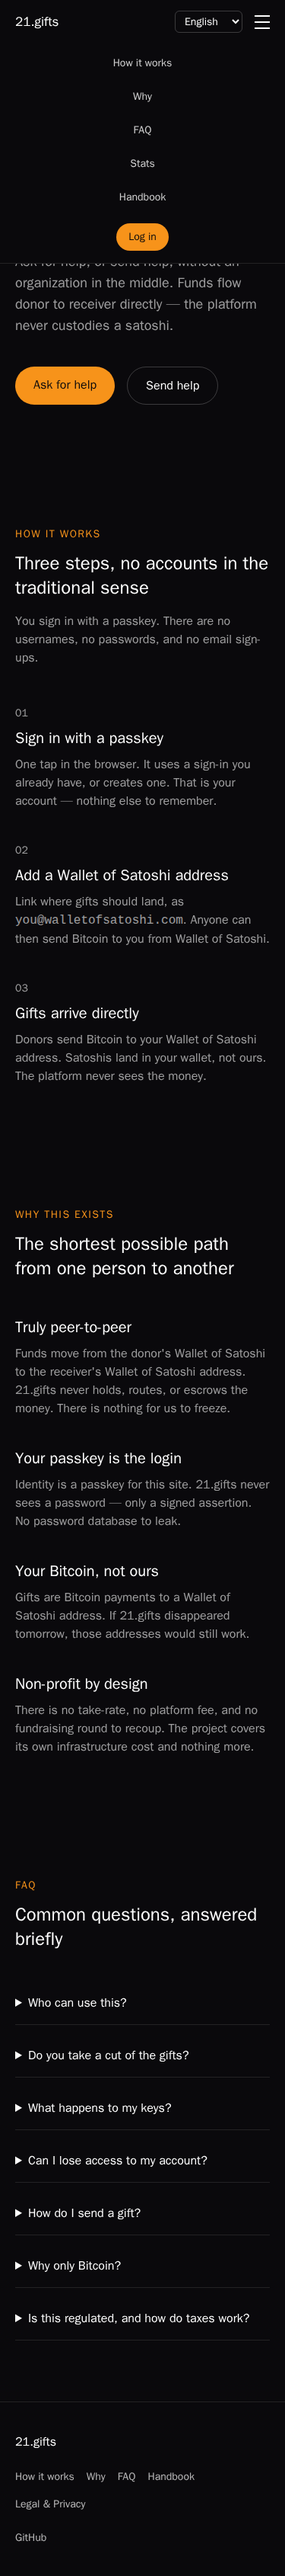
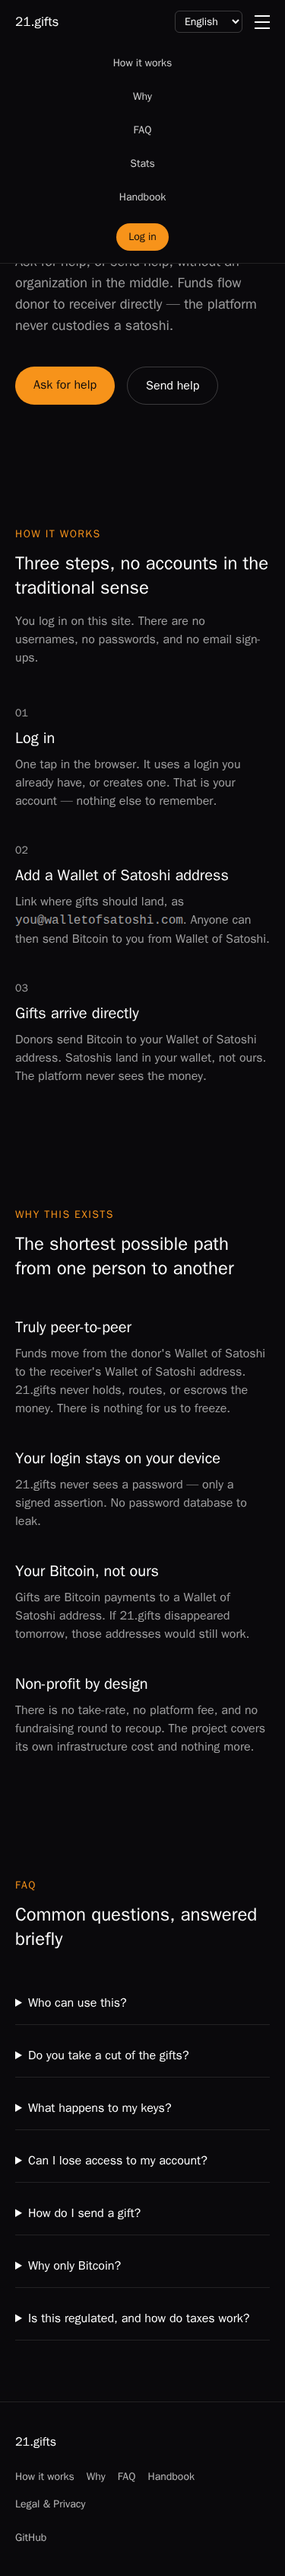
Use ordinary login language on landing, legal, and handbook

Changed region(s): [[0.0587, 0.5592, 0.8213, 0.5902], [0.088, 0.2796, 0.1173, 0.3107]]

diff --git a/src/lib/messages.ts b/src/lib/messages.ts
@@ -26,10 +26,10 @@ const en = {
   'home.howKicker': 'How it works',
   'home.howTitle': 'Three steps, no accounts in the traditional sense',
   'home.howLead':
-    'You sign in with a passkey. There are no usernames, no passwords, and no email sign-ups.',
-  'home.step1Title': 'Sign in with a passkey',
+    'You log in on this site. There are no usernames, no passwords, and no email sign-ups.',
+  'home.step1Title': 'Log in',
   'home.step1Body':
-    'One tap in the browser. It uses a sign-in you already have, or creates one. That is your account — nothing else to remember.',
+    'One tap in the browser. It uses a login you already have, or creates one. That is your account — nothing else to remember.',
   'home.step2Title': 'Add a Wallet of Satoshi address',
   'home.step2BodyBefore': 'Link where gifts should land, as',
   'home.step2BodyAfter': '. Anyone can then send Bitcoin to you from Wallet of Satoshi.',
@@ -41,9 +41,9 @@ const en = {
   'home.why1Title': 'Truly peer-to-peer',
   'home.why1Body':
     "Funds move from the donor's Wallet of Satoshi to the receiver's Wallet of Satoshi address. 21.gifts never holds, routes, or escrows the money. There is nothing for us to freeze.",
-  'home.why2Title': 'Your passkey is the login',
+  'home.why2Title': 'Your login stays on your device',
   'home.why2Body':
-    'Identity is a passkey for this site. 21.gifts never sees a password — only a signed assertion. No password database to leak.',
+    '21.gifts never sees a password — only a signed assertion. No password database to leak.',
   'home.why3Title': 'Your Bitcoin, not ours',
   'home.why3Body':
     'Gifts are Bitcoin payments to a Wallet of Satoshi address. If 21.gifts disappeared tomorrow, those addresses would still work.',
@@ -59,10 +59,10 @@ const en = {
     "No. Payments go directly from the donor's Wallet of Satoshi to the receiver's Wallet of Satoshi address. 21.gifts is never in the payment path and earns nothing per transaction.",
   'home.faq3Q': 'What happens to my keys?',
   'home.faq3A':
-    'Login credentials stay on your device (and any platform passkey sync you use). 21.gifts only sees a signed passkey assertion and, if you choose, the Wallet of Satoshi address you publish. There is no password and no seed stored on our servers.',
+    'Login credentials stay on your device (and any platform sync you use). 21.gifts only sees a signed login assertion and, if you choose, the Wallet of Satoshi address you publish. There is no password and no seed stored on our servers.',
   'home.faq4Q': 'Can I lose access to my account?',
   'home.faq4A':
-    'Yes. If you lose the passkey and any platform sync, the account cannot be recovered in v1. Keep a backup of the authenticator you sign in with.',
+    'Yes. If you lose the login and any platform sync, the account cannot be recovered in v1. Keep a backup of the device you sign in with.',
   'home.faq5Q': 'How do I send a gift?',
   'home.faq5A':
     "Open Send help, enter the recipient's Wallet of Satoshi address and an amount in sats, then pay with Wallet of Satoshi. You do not need to log in to give.",
@@ -160,10 +160,10 @@ const de = {
   'home.howKicker': "So funktioniert's",
   'home.howTitle': 'Drei Schritte, keine Konten im herkömmlichen Sinn',
   'home.howLead':
-    'Sie melden sich mit einem Passkey an. Keine Benutzernamen, keine Passwörter, keine E-Mail-Registrierung.',
-  'home.step1Title': 'Mit einem Passkey anmelden',
+    'Sie melden sich an. Keine Benutzernamen, keine Passwörter, keine E-Mail-Registrierung.',
+  'home.step1Title': 'Anmelden',
   'home.step1Body':
-    'Ein Tipp im Browser. Er nutzt eine vorhandene Anmeldung oder legt eine an. Das ist Ihr Konto — sonst nichts merken.',
+    'Ein Tipp im Browser. Er nutzt ein vorhandenes Login oder legt eines an. Das ist Ihr Konto — sonst nichts merken.',
   'home.step2Title': 'Wallet of Satoshi address hinterlegen',
   'home.step2BodyBefore': 'Hinterlegen Sie, wo Geschenke ankommen sollen, als',
   'home.step2BodyAfter': '. Danach kann Ihnen jede Person aus Wallet of Satoshi senden.',
@@ -175,9 +175,9 @@ const de = {
   'home.why1Title': 'Echt peer-to-peer',
   'home.why1Body':
     'Das Geld geht von Wallet of Satoshi der gebenden Person an die Wallet of Satoshi address der empfangenden Person. 21.gifts hält, routet oder treuhändert nichts. Es gibt nichts, das wir einfrieren könnten.',
-  'home.why2Title': 'Ihr Passkey ist die Anmeldung',
+  'home.why2Title': 'Ihr Login bleibt bei Ihnen',
   'home.why2Body':
-    'Identität ist ein Passkey für diese Seite. 21.gifts sieht kein Passwort — nur eine signierte Anmeldung. Keine Passwort-Datenbank, die lecken kann.',
+    '21.gifts sieht kein Passwort — nur eine signierte Anmeldung. Keine Passwort-Datenbank, die lecken kann.',
   'home.why3Title': 'Ihr Bitcoin, nicht unserer',
   'home.why3Body':
     'Geschenke sind Bitcoin-Zahlungen an eine Wallet of Satoshi address. Würde 21.gifts morgen verschwinden, funktionieren diese Adressen weiter.',
@@ -193,10 +193,10 @@ const de = {
     'Nein. Zahlungen gehen direkt von Wallet of Satoshi der gebenden Person an die Wallet of Satoshi address der empfangenden Person. 21.gifts liegt nicht im Zahlungsweg und verdient nichts pro Transaktion.',
   'home.faq3Q': 'Was passiert mit meinen Schlüsseln?',
   'home.faq3A':
-    'Anmeldedaten bleiben auf Ihrem Gerät (und in einer Passkey-Sync, falls Sie eine nutzen). 21.gifts sieht nur eine signierte Passkey-Anmeldung und, wenn Sie das wollen, die Wallet of Satoshi address, die Sie veröffentlichen. Kein Passwort und kein Seed auf unseren Servern.',
+    'Anmeldedaten bleiben auf Ihrem Gerät (und in einer Login-Sync, falls Sie eine nutzen). 21.gifts sieht nur eine signierte Anmeldung und, wenn Sie das wollen, die Wallet of Satoshi address, die Sie veröffentlichen. Kein Passwort und kein Seed auf unseren Servern.',
   'home.faq4Q': 'Kann ich den Zugang zu meinem Konto verlieren?',
   'home.faq4A':
-    'Ja. Wenn Sie den Passkey und jede Plattform-Sync verlieren, ist das Konto in v1 nicht wiederherstellbar. Sichern Sie den Authenticator, mit dem Sie sich anmelden.',
+    'Ja. Wenn Sie das Login und jede Plattform-Sync verlieren, ist das Konto in v1 nicht wiederherstellbar. Sichern Sie das Gerät, mit dem Sie sich anmelden.',
   'home.faq5Q': 'Wie sende ich ein Geschenk?',
   'home.faq5A':
     'Öffnen Sie Hilfe senden, geben Sie die Wallet of Satoshi address der empfangenden Person und einen Betrag in Sats ein und zahlen Sie mit Wallet of Satoshi. Zum Geben müssen Sie sich nicht anmelden.',
@@ -282,10 +282,10 @@ const es = {
   'home.howKicker': 'Cómo funciona',
   'home.howTitle': 'Tres pasos, sin cuentas al estilo tradicional',
   'home.howLead':
-    'Entras con una passkey. Sin nombres de usuario, sin contraseñas y sin registro por correo.',
-  'home.step1Title': 'Entra con una passkey',
+    'Entras con un login. Sin nombres de usuario, sin contraseñas y sin registro por correo.',
+  'home.step1Title': 'Iniciar sesión',
   'home.step1Body':
-    'Un toque en el navegador. Usa un inicio de sesión que ya tengas, o crea uno. Esa es tu cuenta — nada más que recordar.',
+    'Un toque en el navegador. Usa un login que ya tengas, o crea uno. Esa es tu cuenta — nada más que recordar.',
   'home.step2Title': 'Añade una Wallet of Satoshi address',
   'home.step2BodyBefore': 'Indica dónde deben llegar los regalos, como',
   'home.step2BodyAfter': '. Cualquiera podrá enviarte Bitcoin desde Wallet of Satoshi.',
@@ -297,9 +297,9 @@ const es = {
   'home.why1Title': 'Peer-to-peer de verdad',
   'home.why1Body':
     'Los fondos van de Wallet of Satoshi de quien da a la Wallet of Satoshi address de quien recibe. 21.gifts no retiene, enruta ni deja en depósito el dinero. No hay nada que podamos congelar.',
-  'home.why2Title': 'Tu passkey es el inicio de sesión',
+  'home.why2Title': 'Tu login permanece en tu dispositivo',
   'home.why2Body':
-    'La identidad es una passkey para este sitio. 21.gifts no ve una contraseña — solo una aserción firmada. No hay base de datos de contraseñas que se pueda filtrar.',
+    '21.gifts no ve una contraseña — solo una aserción firmada. No hay base de datos de contraseñas que se pueda filtrar.',
   'home.why3Title': 'Tu Bitcoin, no el nuestro',
   'home.why3Body':
     'Los regalos son pagos Bitcoin a una Wallet of Satoshi address. Si 21.gifts desapareciera mañana, esas direcciones seguirían funcionando.',
@@ -315,10 +315,10 @@ const es = {
     'No. Los pagos van directo de Wallet of Satoshi de quien da a la Wallet of Satoshi address de quien recibe. 21.gifts no está en la ruta de pago y no gana nada por transacción.',
   'home.faq3Q': '¿Qué pasa con mis claves?',
   'home.faq3A':
-    'Las credenciales de acceso quedan en tu dispositivo (y en la sincronización de passkeys de la plataforma, si la usas). 21.gifts solo ve una aserción de passkey firmada y, si lo eliges, la Wallet of Satoshi address que publicas. No hay contraseña ni semilla en nuestros servidores.',
+    'Las credenciales de acceso quedan en tu dispositivo (y en la sincronización de la plataforma, si la usas). 21.gifts solo ve una aserción de login firmada y, si lo eliges, la Wallet of Satoshi address que publicas. No hay contraseña ni semilla en nuestros servidores.',
   'home.faq4Q': '¿Puedo perder el acceso a mi cuenta?',
   'home.faq4A':
-    'Sí. Si pierdes la passkey y cualquier sincronización de plataforma, la cuenta no se puede recuperar en v1. Conserva una copia de seguridad del autenticador con el que entras.',
+    'Sí. Si pierdes el login y cualquier sincronización de plataforma, la cuenta no se puede recuperar en v1. Conserva una copia de seguridad del dispositivo con el que entras.',
   'home.faq5Q': '¿Cómo envío un regalo?',
   'home.faq5A':
     'Abre Enviar ayuda, escribe la Wallet of Satoshi address de quien recibe y un monto en sats, y paga con Wallet of Satoshi. No hace falta iniciar sesión para dar.',
@@ -403,9 +403,8 @@ const fil = {
   'home.ctaSend': 'Magpadala ng tulong',
   'home.howKicker': 'Paano ito gumagana',
   'home.howTitle': 'Tatlong hakbang, walang account sa tradisyonal na paraan',
-  'home.howLead':
-    'Mag-log in ka gamit ang passkey. Walang username, walang password, at walang email sign-up.',
-  'home.step1Title': 'Mag-log in gamit ang passkey',
+  'home.howLead': 'Mag-log in ka. Walang username, walang password, at walang email sign-up.',
+  'home.step1Title': 'Mag-log in',
   'home.step1Body':
     'Isang tap sa browser. Gagamitin ang login na meron ka na, o gagawa ng bago. Iyon ang account mo — wala nang ibang tandaan.',
   'home.step2Title': 'Magdagdag ng Wallet of Satoshi address',
@@ -420,9 +419,9 @@ const fil = {
   'home.why1Title': 'Tunay na peer-to-peer',
   'home.why1Body':
     'Gumagalaw ang pondo mula sa Wallet of Satoshi ng nagbibigay patungo sa Wallet of Satoshi address ng tumatanggap. Hindi humahawak, nagr-route, o nag-escrow ang 21.gifts. Walang pwedeng i-freeze.',
-  'home.why2Title': 'Ang passkey mo ang login',
+  'home.why2Title': 'Nasa device mo ang login',
   'home.why2Body':
-    'Ang identidad ay isang passkey para sa site na ito. Walang password na nakikita ng 21.gifts — signed assertion lang. Walang password database na pwedeng tumagas.',
+    'Walang password na nakikita ng 21.gifts — signed assertion lang. Walang password database na pwedeng tumagas.',
   'home.why3Title': 'Ang Bitcoin mo, hindi sa amin',
   'home.why3Body':
     'Bitcoin payment ang mga handog sa isang Wallet of Satoshi address. Kung mawala ang 21.gifts bukas, gagana pa rin ang mga address na iyon.',
@@ -438,10 +437,10 @@ const fil = {
     'Hindi. Diretso ang bayad mula sa Wallet of Satoshi ng nagbibigay patungo sa Wallet of Satoshi address ng tumatanggap. Wala ang 21.gifts sa payment path at walang kita per transaction.',
   'home.faq3Q': 'Ano ang nangyayari sa mga key ko?',
   'home.faq3A':
-    'Nanatili ang login credentials sa device mo (at sa passkey sync ng platform, kung ginagamit mo). Nakikita lang ng 21.gifts ang signed passkey assertion at, kung pipiliin mo, ang Wallet of Satoshi address na ipinapaskil mo. Walang password at walang seed sa aming servers.',
+    'Nanatili ang login credentials sa device mo (at sa sync ng platform, kung ginagamit mo). Nakikita lang ng 21.gifts ang signed login assertion at, kung pipiliin mo, ang Wallet of Satoshi address na ipinapaskil mo. Walang password at walang seed sa aming servers.',
   'home.faq4Q': 'Puwede ba akong mawalan ng access sa account?',
   'home.faq4A':
-    'Oo. Kung mawala ang passkey at anumang platform sync, hindi na mare-recover ang account sa v1. Mag-backup ng authenticator na ginagamit mo sa pag-log in.',
+    'Oo. Kung mawala ang login at anumang platform sync, hindi na mare-recover ang account sa v1. Mag-backup ng device na ginagamit mo sa pag-log in.',
   'home.faq5Q': 'Paano ako magpapadala ng handog?',
   'home.faq5A':
     'Buksan ang Magpadala ng tulong, ilagay ang Wallet of Satoshi address ng tatanggap at ang amount sa sats, tapos magbayad gamit ang Wallet of Satoshi. Hindi kailangang mag-log in para magbigay.',

diff --git a/src/app/(marketing)/legal/page.tsx b/src/app/(marketing)/legal/page.tsx
@@ -46,7 +46,7 @@ export default function LegalPage(): ReactElement {
           This origin does not load analytics scripts. It sets no cookies unless you choose a
           language; then a <code>locale</code> cookie stores that choice so the next visit can
           honour it. The application stores a session token in <code>localStorage</code> after you
-          sign in with a passkey so a returning visitor stays signed in.
+          sign in so a returning visitor stays signed in.
         </p>
         <h3 className="text-lg font-semibold">Hosting</h3>
         <p className="text-white/70">
@@ -64,9 +64,9 @@ export default function LegalPage(): ReactElement {
         </p>
         <h3 className="text-lg font-semibold">Data in the app</h3>
         <p className="text-white/70">
-          The application on this same origin uses a passkey to sign in and Wallet of Satoshi to
-          receive Bitcoin. It does not hold funds. Bitcoin payments go directly from the
-          donor&apos;s Wallet of Satoshi to the receiver&apos;s Wallet of Satoshi address.
+          The application on this same origin lets you sign in and uses Wallet of Satoshi to receive
+          Bitcoin. It does not hold funds. Bitcoin payments go directly from the donor&apos;s Wallet
+          of Satoshi to the receiver&apos;s Wallet of Satoshi address.
         </p>
         <h3 className="text-lg font-semibold">Contact</h3>
         <p className="text-white/70">

diff --git a/e2e/login.spec.ts b/e2e/login.spec.ts
@@ -6,6 +6,7 @@ test('login page renders a single Log in button', async ({ page }) => {
   await expect(page.getByRole('button', { name: 'Log in' })).toHaveCount(1);
   await expect(page.getByRole('button', { name: 'Create a passkey' })).toHaveCount(0);
   await expect(page.getByRole('button', { name: 'Continue with passkey' })).toHaveCount(0);
+  await expect(page.getByRole('button', { name: 'Create a login' })).toHaveCount(0);
 });
 
 test('login shows Preparing your login while passkey begin hangs', async ({ page }) => {

diff --git a/src/components/LoginCard.tsx b/src/components/LoginCard.tsx
@@ -19,7 +19,7 @@ import { useAuthStore } from '@/stores/auth-store';
  * newer in-page session or logout already won; a rejected token calls
  * `clearAuth` when the in-memory session is absent or still that token.
  * Unmount and logout invalidate in-flight hydration. Logout and successful
- * hydration cancel an in-flight passkey ceremony.
+ * hydration cancel an in-flight login ceremony.
  *
  * @returns The card element.
  */

diff --git a/src/__tests__/app/(marketing)/page.test.tsx b/src/__tests__/app/(marketing)/page.test.tsx
@@ -39,6 +39,11 @@ describe('Home', () => {
     expect(document.body.textContent).not.toMatch(/LNURL/i);
   });
 
+  it('does not use passkey jargon', async () => {
+    render(await Home());
+    expect(document.body.textContent).not.toMatch(/passkey/i);
+  });
+
   it('links Ask for help to login', async () => {
     render(await Home());
     const link = screen.getByRole('link', { name: 'Ask for help' });

diff --git a/docs/handbook/screens.md b/docs/handbook/screens.md
@@ -3,7 +3,7 @@
 ## Screen: /
 
 - **URL:** `/` — public marketing landing (no auth gate).
-- **What the user sees:** Dark 21.gifts header with a language switcher, headline about peer-to-peer Bitcoin gifts, How it works (passkey login and Wallet of Satoshi address) / Why / FAQ, CTAs **Ask for help** (`/login`) and **Send help** (`/donate`).
+- **What the user sees:** Dark 21.gifts header with a language switcher, headline about peer-to-peer Bitcoin gifts, How it works (login and Wallet of Satoshi address) / Why / FAQ, CTAs **Ask for help** (`/login`) and **Send help** (`/donate`).
 - **Actions:** Read the pitch, change language, open login or donate, jump to in-page sections, open Stats, open Legal & Privacy, open the Handbook.
 - **Calls:** `Home` (`src/app/(marketing)/page.tsx`) inside `MarketingLayout`, `LanguageSwitcher`.
 
@@ -22,7 +22,7 @@ Narrow viewport: header shows the Menu button. Open it to reveal the same links 
 ## Screen: /legal
 
 - **URL:** `/legal` — imprint and privacy. `/legal.html` permanently redirects here.
-- **What the user sees:** Dark 21.gifts header with a language switcher, Legal Notice (Switzerland, info@21.gifts) and Privacy Policy (no analytics; no cookies unless the visitor chooses a language — then a `locale` cookie; session in localStorage; Cloudflare TLS; passkey login on this origin). Legal body copy stays English.
+- **What the user sees:** Dark 21.gifts header with a language switcher, Legal Notice (Switzerland, info@21.gifts) and Privacy Policy (no analytics; no cookies unless the visitor chooses a language — then a `locale` cookie; session in localStorage; Cloudflare TLS; login on this origin). Legal body copy stays English.
 - **Actions:** Change language. Read the legal body. Header **Log in** goes to `/login`.
 - **Calls:** `LegalPage` inside `MarketingLayout`, `LanguageSwitcher`.
 
@@ -103,9 +103,9 @@ Fetch failed. Copy **Could not load gift stats. Please try again.** and **Try ag
 
 ## Screen: /login
 
-- **URL:** `/login` — passkey only.
+- **URL:** `/login` — login only.
 - **What the user sees:** Light language switcher top-right on the page (not the marketing header). Idle **Log in**, or signed-in account. Error is terminal until **Try again**.
-- **Actions:** Change language. Log in (existing passkey, or create one when the browser has none). When signed in, set a display name, link/unlink a Wallet of Satoshi address, and log out. No client redirect to `/`.
+- **Actions:** Change language. Log in (existing login, or create one when the browser has none). When signed in, set a display name, link/unlink a Wallet of Satoshi address, and log out. No client redirect to `/`.
 - **Calls:** `LoginCard`, `NameForm`, `LightningAddressForm`, `usePasskeyLogin`, `useAuthStore`, `LanguageSwitcher`.
 
 ### Variant: idle
@@ -116,13 +116,13 @@ Logged out. Heading **Sign in to 21.gifts**, one **Log in** button.
 
 ### Variant: starting
 
-Transient after a passkey click, before the ceremony finishes: spinner and **Preparing your login…**.
+Transient after a login click, before the ceremony finishes: spinner and **Preparing your login…**.
 
 ![21.gifts login starting](images/login-starting.png)
 
 ### Variant: error
 
-Passkey begin or finish failed. Copy **Something went wrong. Please try again.** and **Try again**.
+Login begin or finish failed. Copy **Something went wrong. Please try again.** and **Try again**.
 
 ![21.gifts login error](images/login-error.png)
 

diff --git a/docs/handbook/functions.md b/docs/handbook/functions.md
@@ -150,8 +150,8 @@
 
 ## Function: LoginCard
 
-- **Purpose:** Login UI: one **Log in** button (existing passkey, or create when the browser has none), then signed-in view with `NameForm` and `LightningAddressForm`. Visitor-facing copy via `useTranslations`.
-- **Inputs:** Uses `usePasskeyLogin` and `useAuthStore`. Rehydrates via `loadSession` + `fetchMe` without overwriting a newer in-page session or restoring after logout. A rejected token calls `clearAuth` when the in-memory session is absent or still that token. Successful hydration cancels an in-flight passkey ceremony. Logout cancels an in-flight passkey ceremony. Unmount invalidates in-flight hydration.
+- **Purpose:** Login UI: one **Log in** button (existing login, or create when the browser has none), then signed-in view with `NameForm` and `LightningAddressForm`. Visitor-facing copy via `useTranslations`.
+- **Inputs:** Uses `usePasskeyLogin` and `useAuthStore`. Rehydrates via `loadSession` + `fetchMe` without overwriting a newer in-page session or restoring after logout. A rejected token calls `clearAuth` when the in-memory session is absent or still that token. Successful hydration cancels an in-flight login ceremony. Logout cancels an in-flight login ceremony. Unmount invalidates in-flight hydration.
 - **Returns / side effects:** React element covering idle/starting/error/signed-in. Does not navigate away from `/login`.
 - **Used by:** Screen `/login`.
 

diff --git a/CONTRIBUTING.md b/CONTRIBUTING.md
@@ -57,7 +57,7 @@ app/
 │   │   │   └── stats/
 │   │   │       └── route.ts     # GET /gifts/stats same-origin proxy
 │   │   ├── login/
-│   │   │   └── page.tsx         # GET /login — passkey + signed-in form
+│   │   │   └── page.tsx         # GET /login — login + signed-in form
 │   │   ├── globals.css          # Tailwind entry — the only CSS file
 │   │   └── healthz/
 │   │       └── route.ts         # GET /healthz — container liveness probe
@@ -99,7 +99,7 @@ app/
 ├── e2e/
 │   ├── smoke.spec.ts            # Playwright smoke tests (outside vitest scope)
 │   ├── donate.spec.ts           # /donate form heading + submit button
-│   ├── login.spec.ts            # /login passkey create/continue + signed-in forms
+│   ├── login.spec.ts            # /login single Log in button + signed-in forms
 │   ├── i18n.spec.ts             # Accept-Language + locale cookie switcher
 │   ├── functions.spec.ts        # Playwright Function: <Name> tests through Next
 │   ├── proxy.spec.ts            # Same-origin api proxy round-trips against the stub
